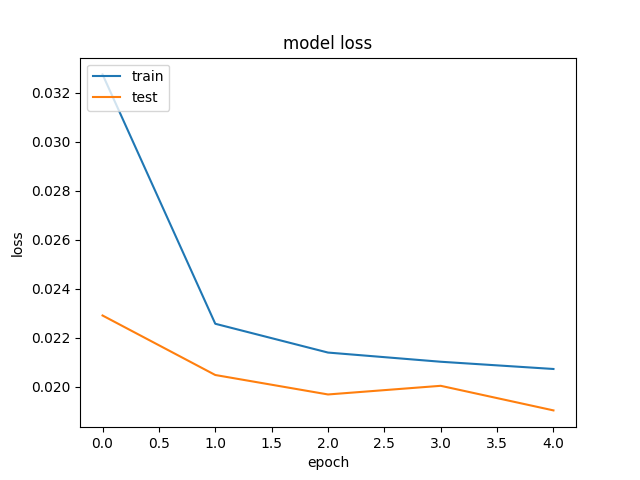
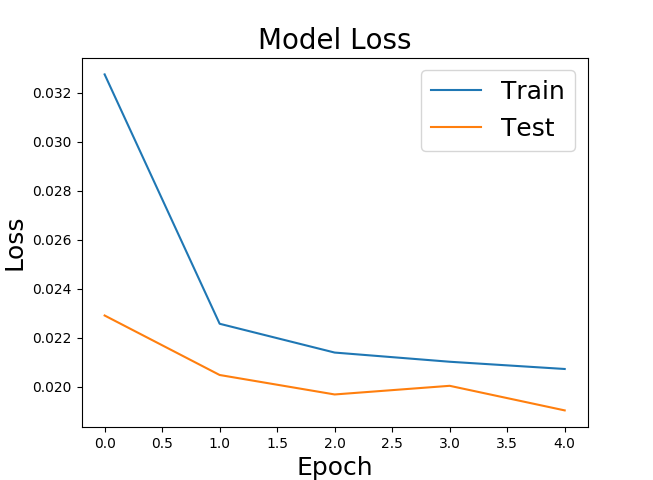
final changes

diff --git a/ann.py b/ann.py
@@ -54,10 +54,10 @@ rms_test = np.sqrt(np.mean((X_fit.flatten() - Y_test)**2))
 # # summarize history for loss
 plt.plot(history.history['loss'])
 plt.plot(history.history['val_loss'])
-plt.title('model loss')
-plt.ylabel('loss')
-plt.xlabel('epoch')
-plt.legend(['train', 'test'], loc='upper left')
+plt.title('Model Loss',fontsize=20)
+plt.ylabel('Loss',fontsize=18)
+plt.xlabel('Epoch',fontsize=18)
+plt.legend(['Train', 'Test'], loc='upper left',fontsize=18)
 plt.show()
 
 plt.figure()
